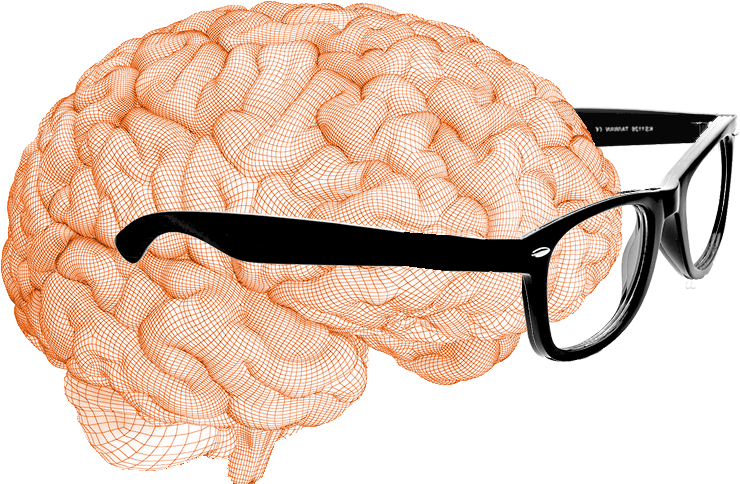
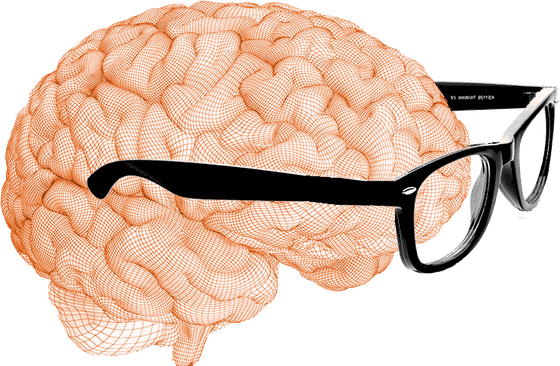
feat(homepage): first-contact review fixes — CTA, counts, contrast, weight
From the critical homepage review:

- Hero CTA: "Browse all 127 tools ↓" (smooth-scrolls to the catalog) +
  "describe your problem" link to ToolFinder. The catalog started 2+
  screens down with no path to it; the fold now has a next step.
- "no signup" added to the hero trail — the second-best selling point
  appeared nowhere above the fold.
- One true tool count: React copy reads tools.length (HeroPitch, NotFound,
  ToolRenderer); static copy updated to 127 (title, meta/og/twitter/JSON-LD
  descriptions, About thesis, directory kit); verify-build now FAILS on
  count drift between the catalog and static copy.
- Contrast: warm500 label ink retoned #8a8275→#6e6659 (3.6:1→5.5:1);
  DemoCards labels #a8a196→#6e6659 (2.4:1 fixed); "Try it"/hero link use
  new gold700 #9c691c (2.9:1→4.7:1); hero trail to warm700.
- Category strip: dead "Faves 0" pill hidden until something is faved
  (frees ~90px of mobile strip width); scroll chevron 13px/45% → 17px/85%.
- Search: placeholder "Search tools"; ⌘K chip hidden below sm (no Command
  key on phones).
- pBrain-r/l.png: 499 KB → 75 KB each (560px, quantized) — the largest
  first-paint asset, now 85% smaller.

Verified in preview at 375px: fold shows masthead → hero → CTA → search →
examples; CTA scroll lands on CATEGORIES; strip shows 2 categories + a
visible continuation hint.

diff --git a/src/components/DashBoard.js b/src/components/DashBoard.js
@@ -26,9 +26,14 @@ const CLR = {
   gold100: '#f9edd8',
   gold300: '#e8be7a',
   gold500: '#c8872e',
-  warm500: '#8a8275',
+  // warm500 is the muted-label ink. It was #8a8275 (3.6:1 on sand — failed
+  // WCAG for the 10-11px labels it paints); retoned darker, same warmth.
+  warm500: '#6e6659',
   warm700: '#5a544a',
   warm800: '#3d3935',
+  // gold500 on light backgrounds fails contrast for small text (2.9:1) —
+  // gold700 is the readable ink version for links/CTAs on cream.
+  gold700: '#9c691c',
 };
 
 // ════════════════════════════════════════════════════════════
@@ -133,6 +138,7 @@ export default function DashBoard({ allTools, searchTerm, setSearchTerm }) {
   const resultsRef    = useRef(null);
   const stripScrollRef = useRef(null);
   const pillRefsMap    = useRef({});
+  const catalogRef     = useRef(null); // hero CTA scroll target (category strip)
 
   // ⌘K shortcut
   useEffect(() => {
@@ -296,6 +302,21 @@ export default function DashBoard({ allTools, searchTerm, setSearchTerm }) {
             <LocaleSelectors dark={false} />
           </div>
         </div>
+        {/* The fold's next step. The catalog is the product, but it starts
+            2+ screens down on mobile — without this, a visitor who doesn't
+            scroll past the demos never learns the breadth exists. */}
+        <div className="flex flex-wrap items-center gap-x-4 gap-y-2 mt-4">
+          <button
+            onClick={() => catalogRef.current && catalogRef.current.scrollIntoView({ behavior: 'smooth', block: 'start' })}
+            className="px-4 py-2 rounded-xl text-[13px] font-bold text-white transition-opacity hover:opacity-90"
+            style={{ background: CLR.navy500 }}
+          >
+            Browse all {allTools.length} tools ↓
+          </button>
+          <Link to="/ToolFinder" className="text-[13px] font-semibold hover:underline" style={{ color: CLR.gold700 }}>
+            or describe your problem — we&rsquo;ll find the tool &rarr;
+          </Link>
+        </div>
       </header>
 
       {/* ═══════════ DEMO CARDS ═══════════ */}
@@ -322,7 +343,7 @@ export default function DashBoard({ allTools, searchTerm, setSearchTerm }) {
       {!isSearching && <div className="mt-4"><ToolFinderWizard /></div>}
 
       {/* ═══════════ CATEGORY STRIP ═══════════ */}
-      <div className="flex items-center mb-1 mt-3" style={{ paddingLeft: 12 }}>
+      <div ref={catalogRef} className="flex items-center mb-1 mt-3" style={{ paddingLeft: 12, scrollMarginTop: 12 }}>
         <p className="text-[10px] font-extrabold uppercase tracking-[0.15em]"
            style={{ color: CLR.warm500 }}>Categories</p>
       </div>
@@ -338,8 +359,12 @@ export default function DashBoard({ allTools, searchTerm, setSearchTerm }) {
         <div style={{ display: 'flex', gap: 5, flexShrink: 0, alignItems: 'center' }}>
           <TilePill label="ALL"   emoji="🏠" count={toolsWithCategories.length} hideCount highlight
             isActive={activeCategory === 'All'}       onClick={() => selectCategory('All')} />
-          <TilePill label="Faves" emoji="⭐" count={favorites.length}
-            isActive={activeCategory === 'Favorites'} onClick={() => selectCategory('Favorites')} />
+          {/* "Faves ⭐ 0" is a dead pill for every first-time visitor and eats
+              scarce strip width on mobile — it appears once something's faved. */}
+          {favorites.length > 0 && (
+            <TilePill label="Faves" emoji="⭐" count={favorites.length}
+              isActive={activeCategory === 'Favorites'} onClick={() => selectCategory('Favorites')} />
+          )}
           <div style={{ width: 1, background: 'rgba(255,255,255,0.12)', flexShrink: 0, margin: '0 3px', alignSelf: 'stretch' }} />
         </div>
         {/* Scrollable categories + fade hint */}
@@ -378,7 +403,9 @@ export default function DashBoard({ allTools, searchTerm, setSearchTerm }) {
             display: 'flex', alignItems: 'center', justifyContent: 'flex-end',
             paddingRight: 2,
           }}>
-            <span style={{ fontSize: 13, color: 'rgba(255,255,255,0.45)', lineHeight: 1 }}>›</span>
+            {/* 13px @ 45% was invisible in practice — 9 of 12 categories hide
+                behind this scroll on a phone, so the hint has to be seen. */}
+            <span style={{ fontSize: 17, fontWeight: 700, color: 'rgba(255,255,255,0.85)', lineHeight: 1 }}>›</span>
           </div>
         </div>
       </div>
@@ -565,7 +592,7 @@ function SearchBox({ searchRef, searchTerm, setSearchTerm, setActiveCategory }) 
         type="text"
         value={searchTerm}
         onChange={e => { setSearchTerm(e.target.value); setActiveCategory('All'); }}
-        placeholder="Search"
+        placeholder="Search tools"
         style={{
           paddingLeft: 22, paddingRight: searchTerm ? 22 : 36,
           paddingTop: 5, paddingBottom: 5,
@@ -612,7 +639,8 @@ function SearchBox({ searchRef, searchTerm, setSearchTerm, setActiveCategory }) 
         >✕</button>
       )}
       {!searchTerm && (
-        <span style={{
+        /* hidden on touch widths — there is no Command key on a phone */
+        <span className="hidden sm:inline-block" style={{
           position: 'absolute', right: 7,
           fontSize: 10, color: CLR.warm400,
           background: CLR.sand100,

diff --git a/scripts/verify-build.js b/scripts/verify-build.js
@@ -90,6 +90,26 @@ if (fs.existsSync(TOOLS_JS)) {
   failures.push(`WARN: ${TOOLS_JS} not found — skipping prerender check`);
 }
 
+// --- Copy-count consistency ---------------------------------------------------
+// The public tool count appears in static copy (homepage title/meta, About).
+// It must match the real catalog size: the numbers drifted once into a mess of
+// "More than 100" / "120+" / "128" against an actual 127. React copy reads
+// tools.length and can't drift; this check pins the static HTML to the same
+// truth. Fails the build until the copy is updated alongside the catalog.
+if (toolCount > 0) {
+  const countSites = [
+    { file: 'index.html', needle: `${toolCount} Free AI Tools`, label: 'homepage <title>' },
+    { file: 'index.html', needle: `${toolCount} free AI tools`, label: 'homepage meta descriptions' },
+    { file: 'about.html', needle: `${toolCount} tools`,         label: 'About page thesis line' },
+  ];
+  for (const { file, needle, label } of countSites) {
+    const full = path.join(BUILD, file);
+    if (fs.existsSync(full) && !fs.readFileSync(full, 'utf8').includes(needle)) {
+      failures.push(`COUNT DRIFT: ${file} (${label}) does not say "${needle}" — catalog has ${toolCount} tools; update the copy`);
+    }
+  }
+}
+
 // --- Report -----------------------------------------------------------------
 if (failures.length > 0) {
   console.error('\n❌ verify-build FAILED — postbuild chain produced incomplete artifacts:\n');

diff --git a/public/index.html b/public/index.html
@@ -7,8 +7,8 @@
     <meta name="theme-color" content="#1e293b" />
 
     <!-- Primary SEO Meta Tags -->
-    <title>DeftBrain — Skill in Handling Things | More than 100 Free AI Tools</title>
-    <meta name="description" content="DeftBrain offers 120+ free AI-powered tools for productivity, communication, health, finance, and more. Get instant, intelligent help for real-life problems." />
+    <title>DeftBrain — Skill in Handling Things | 127 Free AI Tools</title>
+    <meta name="description" content="DeftBrain offers 127 free AI tools for productivity, communication, health, finance, and more. Get instant, intelligent help for real-life problems — no signup." />
     <meta name="author" content="DeftBrain.com" />
     <meta name="robots" content="index, follow" />
 
@@ -17,7 +17,7 @@
 
     <!-- Open Graph (crawlers read these — useDocumentHead overrides at runtime per tool) -->
     <meta property="og:title" content="DeftBrain — deft (adj.): skill in handling things" />
-    <meta property="og:description" content="More than 100 free AI-powered tools for productivity, communication, health, finance, and more. Get instant, intelligent help for real-life problems." />
+    <meta property="og:description" content="127 free AI tools for productivity, communication, health, finance, and more. Get instant, intelligent help for real-life problems — no signup." />
     <meta property="og:type" content="website" />
     <meta property="og:url" content="https://deftbrain.com" />
     <meta property="og:site_name" content="DeftBrain" />
@@ -28,7 +28,7 @@
     <!-- Twitter Card -->
     <meta name="twitter:card" content="summary_large_image" />
     <meta name="twitter:title" content="DeftBrain — deft (adj.): skill in handling things" />
-    <meta name="twitter:description" content="More than 100 free AI-powered tools for productivity, communication, health, finance, and more." />
+    <meta name="twitter:description" content="127 free AI tools for productivity, communication, health, finance, and more — no signup." />
     <meta name="twitter:image" content="https://deftbrain.com/og/default.png" />
 
     <link rel="apple-touch-icon" href="%PUBLIC_URL%/logo192.png" />
@@ -43,7 +43,7 @@
       "name": "DeftBrain",
       "alternateName": "DeftBrain — Skill in Handling Things",
       "url": "https://deftbrain.com",
-      "description": "More than 100 free AI-powered tools for productivity, communication, health, finance, and more.",
+      "description": "127 free AI tools for productivity, communication, health, finance, and more.",
       "applicationCategory": "UtilityApplication",
       "operatingSystem": "Web",
       "offers": {

diff --git a/src/components/DemoCards.js b/src/components/DemoCards.js
@@ -546,12 +546,14 @@ const DemoCards = ({ isDark = false, className = '' }) => {
   const cardBg     = isDark ? 'bg-zinc-800'     : 'bg-white';
   const cardBorder = isDark ? 'border-zinc-700' : 'border-[#e8e1d5]'; // sand200
   const titleColor = isDark ? 'text-zinc-100'   : 'text-[#1e2a3a]';   // navy700
-  const taglineCol = isDark ? 'text-zinc-400'   : 'text-[#8a8275]';   // warm500
-  const labelColor = isDark ? 'text-zinc-500'   : 'text-[#a8a196]';
+  // Light-mode label inks darkened for WCAG: the old #a8a196 labels measured
+  // 2.4:1 on white and #c8872e "Try it" 2.9:1 — invisible in sunlight.
+  const taglineCol = isDark ? 'text-zinc-400'   : 'text-[#6e6659]';
+  const labelColor = isDark ? 'text-zinc-500'   : 'text-[#6e6659]';
   const inputColor = isDark ? 'text-zinc-300'   : 'text-[#5a544a]';   // warm700
   const outputCol  = isDark ? 'text-zinc-100'   : 'text-[#1e2a3a]';   // navy700
   const dividerCol = isDark ? 'border-zinc-700' : 'border-[#f3efe8]'; // sand100
-  const ctaColor   = isDark ? 'text-[#e8be7a]'  : 'text-[#c8872e]';   // gold500
+  const ctaColor   = isDark ? 'text-[#e8be7a]'  : 'text-[#9c691c]';   // gold700
 
   return (
     <section className={`w-full ${className}`}>

diff --git a/src/components/HeroPitch.js b/src/components/HeroPitch.js
@@ -14,6 +14,7 @@
  *   className — optional additional classes on the wrapper
  */
 import React, { useState } from 'react';
+import { tools } from '../data/tools';
 
 // Triplets sell breadth — each picks 3 tools across different modes
 // (decide / decode / fix / write / plan / negotiate / etc). Edit freely;
@@ -67,7 +68,9 @@ const HeroPitch = ({ isDark = false, className = '' }) => {
   });
 
   const samplerColor = isDark ? 'text-zinc-100' : 'text-zinc-900';
-  const trailColor   = isDark ? 'text-zinc-400' : 'text-[#8a8275]';
+  // Darker than the old #8a8275 (3.6:1, failed WCAG at this size) — this line
+  // carries the count and the no-signup promise; it has to be readable.
+  const trailColor   = isDark ? 'text-zinc-400' : 'text-[#5a544a]';
 
   return (
     <div className={`max-w-3xl ${className}`}>
@@ -75,7 +78,7 @@ const HeroPitch = ({ isDark = false, className = '' }) => {
         {triplet}
       </p>
       <p className={`text-[11px] font-bold uppercase tracking-[0.13em] mt-2 ${trailColor}`}>
-        120+ free AI tools for whatever life throws at you.
+        {tools.length} free AI tools · no signup · for whatever life throws at you.
       </p>
     </div>
   );

diff --git a/src/components/NotFound.js b/src/components/NotFound.js
@@ -1,10 +1,11 @@
 import React from 'react';
 import { useNavigate } from 'react-router-dom';
 import { useTheme } from '../hooks/useTheme';
+import { tools } from '../data/tools';
 
 const NotFound = ({
   headline = "This page doesn't exist.",
-  message = 'Unusual, for a site with 128 tools — but here we are. Whatever you were actually looking for, one of them probably handles it.',
+  message = `Unusual, for a site with ${tools.length} tools — but here we are. Whatever you were actually looking for, one of them probably handles it.`,
 }) => {
   const navigate = useNavigate();
   const { isDark } = useTheme();

diff --git a/public/about.html b/public/about.html
@@ -139,7 +139,7 @@
 
 <h2>The idea</h2>
 <p>A general chatbot is a blank page. When something specific is happening — your lease has a clause that smells wrong, your doctor said four words you didn&#39;t understand, a project is so overwhelming you can&#39;t start it — a blank page is the last thing you need.</p>
-<p>DeftBrain is 128 tools that each do <strong>one job</strong>. Each tool asks only for what it needs, sends it to an AI with instructions refined for that exact situation, and gives you back something structured you can act on: the trap in the clause, the plain-English diagnosis, the two-minute first task. No prompt engineering. No account. No blank page.</p>
+<p>DeftBrain is 127 tools that each do <strong>one job</strong>. Each tool asks only for what it needs, sends it to an AI with instructions refined for that exact situation, and gives you back something structured you can act on: the trap in the clause, the plain-English diagnosis, the two-minute first task. No prompt engineering. No account. No blank page.</p>
 
 <h2>Why it&#39;s free</h2>
 <p>The honest answer: DeftBrain is in its validation stage. The goal right now is to find out which of these tools genuinely help people — not to monetize them. There is no catch waiting behind a signup wall, because there is no signup. If some tools prove genuinely useful, some version of a business may follow; the free tools you use today are how we find out which ones deserve to exist.</p>

diff --git a/src/components/ToolRenderer.js b/src/components/ToolRenderer.js
@@ -38,7 +38,7 @@ const ToolRenderer = ({ college }) => {
     return (
       <NotFound
         headline="No tool lives at this address."
-        message="Maybe renamed, maybe retired, maybe a typo. Whatever you came here to do, one of the 128 tools probably still does it."
+        message={`Maybe renamed, maybe retired, maybe a typo. Whatever you came here to do, one of the ${tools.length} tools probably still does it.`}
       />
     );
   }

diff --git a/docs/DIRECTORY-SUBMISSIONS.md b/docs/DIRECTORY-SUBMISSIONS.md
@@ -28,18 +28,18 @@ LeaseTrapDetector, DoctorVisitTranslator make good captures)
 decision-making · free tools
 
 **Tagline (≤60 chars) — rotate:**
-1. `128 tiny AI tools for life's oddly specific moments`
+1. `127 tiny AI tools for life's oddly specific moments`
 2. `An AI tool for every awkward, stuck, oh-no moment`
 3. `One-job AI tools: paste the situation, get the answer`
 
 **Short description (~150 chars) — rotate:**
-1. `128 free single-purpose AI tools — decode your lease, prep a hard conversation,
+1. `127 free single-purpose AI tools — decode your lease, prep a hard conversation,
    break down an overwhelming task. No signup, no account.`
 2. `A catalog of tiny AI tools that each do ONE thing well: check a lease for traps,
    translate doctor-speak, plan a solo walk home. Free, no login.`
 
 **Long description (~120 words):**
-> DeftBrain is a collection of 128 free, single-purpose AI tools for the oddly
+> DeftBrain is a collection of 127 free, single-purpose AI tools for the oddly
 > specific moments a general chatbot handles badly: decoding a rental lease for
 > traps, translating a doctor's diagnosis into plain language, breaking an
 > overwhelming project into two-minute tasks, planning a safe route home, or